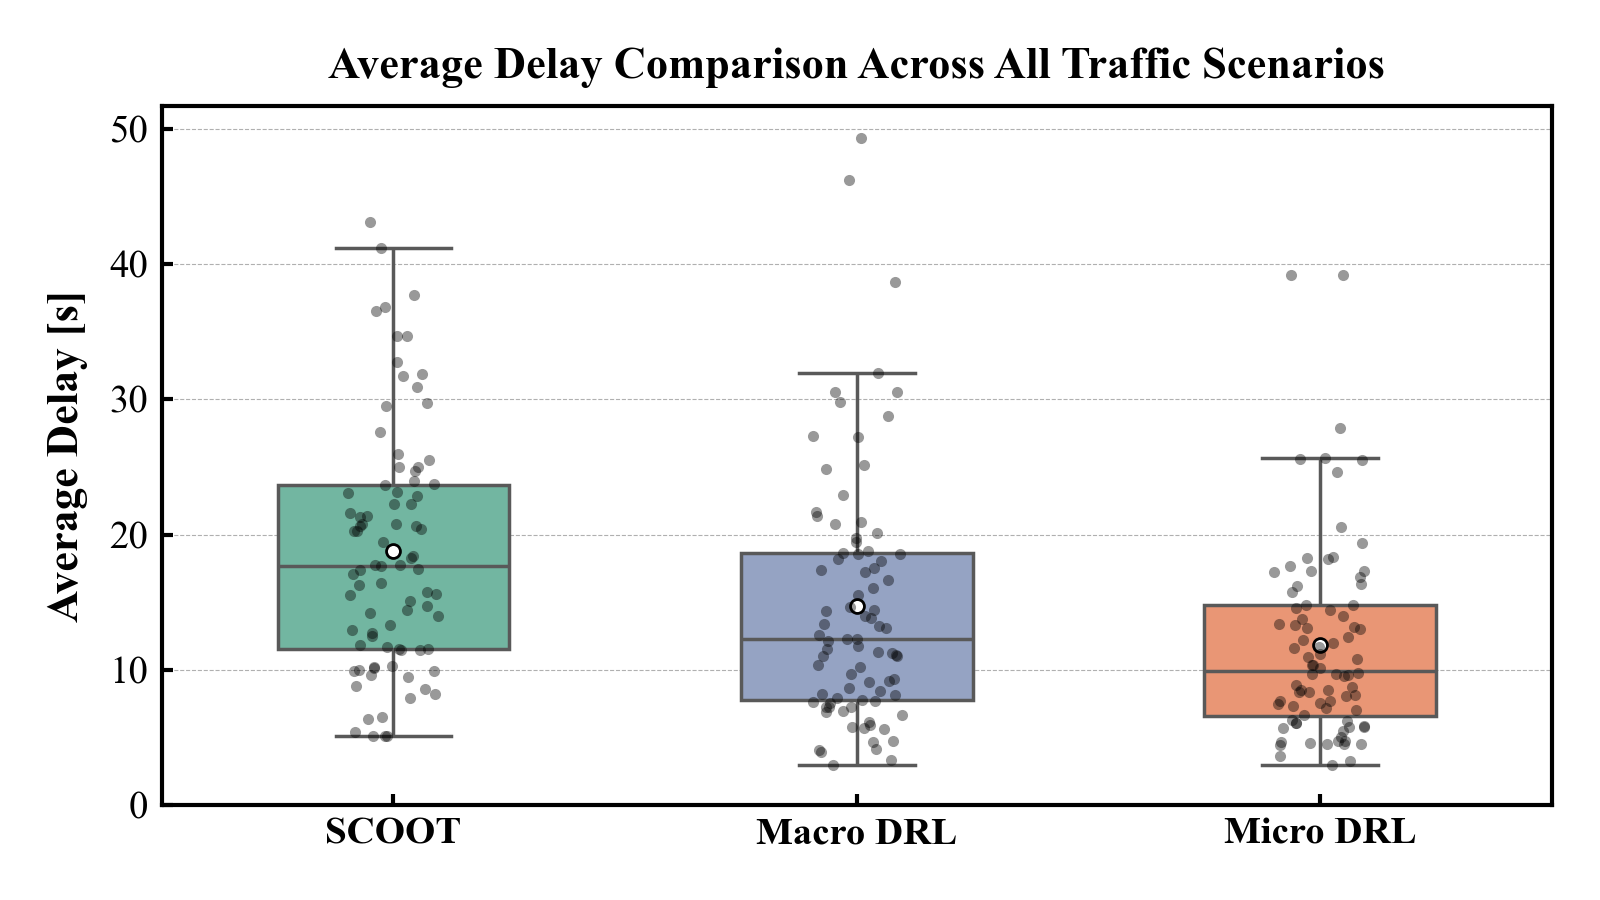
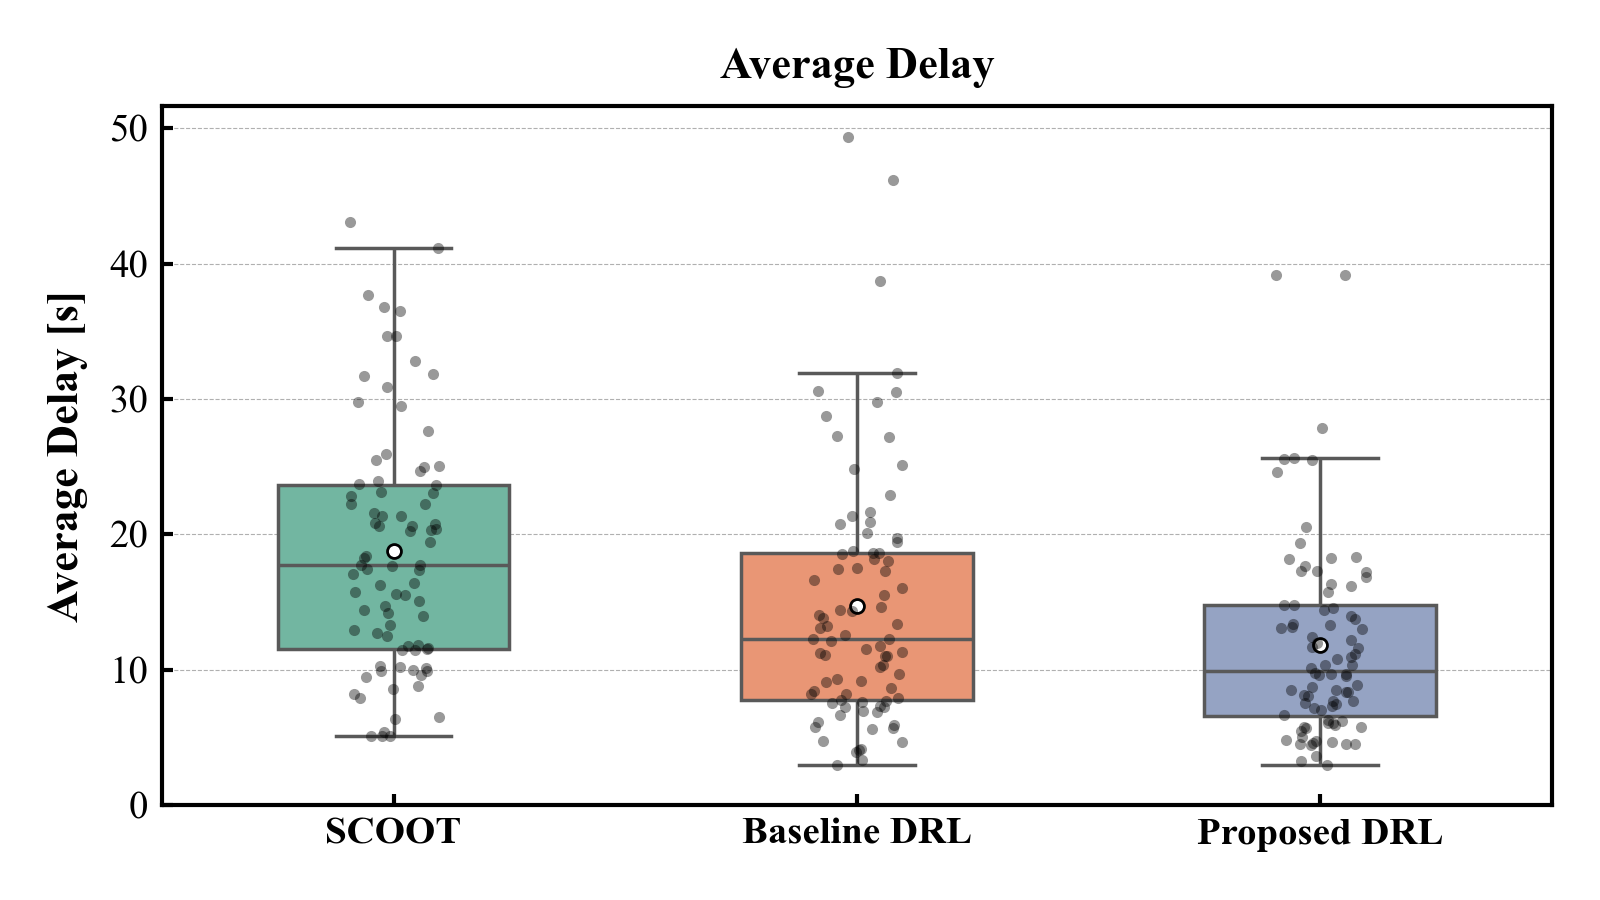
update simulations

diff --git a/misc/analysis/performance_metric_box_plots/plot.py b/misc/analysis/performance_metric_box_plots/plot.py
@@ -75,7 +75,7 @@ def getPerformanceMetricDf(config_yaml):
                     # make performance_metric_map
                     performance_metric_map = {
                         'id': len(performance_metric_map_list) + 1,
-                        'method': f"{num_phases}-phase MPC",
+                        'method': config_yaml['figure']['x_axis']['label']['mpc'][f"{num_phases}-phase"],
                         'layout': layout,
                         'inflow': simulator_dir_path.parent.name,
                         'intersection': int(re.match(rf"intersection_(\d+)", intersection_dir_path.name).group(1)),
@@ -112,7 +112,7 @@ def getPerformanceMetricDf(config_yaml):
                     # make performance_metric_map
                     performance_metric_map = {
                         'id': len(performance_metric_map_list) + 1,
-                        'method': 'SCOOT',
+                        'method': config_yaml['figure']['x_axis']['label']['scoot'],
                         'layout': layout,
                         'inflow': simulator_dir_path.parent.name,
                         'intersection': int(re.match(rf"intersection_(\d+)", intersection_dir_path.name).group(1)),
@@ -142,9 +142,9 @@ def getPerformanceMetricDf(config_yaml):
                 vehicle_state_info = method_config['state']['vehicle']
 
                 if all(vehicle_state_info[key] for key in ['position', 'speed', 'route']):
-                    method_name = 'Micro DRL'
+                    method_name = config_yaml['figure']['x_axis']['label']['drl']['micro']
                 elif all(not vehicle_state_info[key] for key in ['position', 'speed', 'route']):
-                    method_name = 'Macro DRL'
+                    method_name = config_yaml['figure']['x_axis']['label']['drl']['macro']
                 else:
                     continue
 
@@ -190,21 +190,36 @@ def getOrderList(config_yaml, performance_metric):
 
     if performance_metric != 'reward':
         if config_yaml['target']['control_method']['scoot']:
-            order_list.append('SCOOT')
+            order_list.append(config_yaml['figure']['x_axis']['label']['scoot'])
         
         for num_phases in [4, 8, 17]:
             if config_yaml['target']['control_method']['mpc'][f"{num_phases}-phase"]:
-                order_list.append(f"{num_phases}-phase MPC")
-
+                order_list.append(config_yaml['figure']['x_axis']['label']['mpc'][f"{num_phases}-phase"])
     if config_yaml['target']['control_method']['drl']['macro']:
-        order_list.append('Macro DRL')
+        order_list.append(config_yaml['figure']['x_axis']['label']['drl']['macro'])
 
     if config_yaml['target']['control_method']['drl']['micro']:
-        order_list.append('Micro DRL')
+        order_list.append(config_yaml['figure']['x_axis']['label']['drl']['micro'])
     
     return order_list
 
+def getColorMap(config_yaml):
+    method_list = []
+    if config_yaml['target']['control_method']['scoot']:
+        method_list.append(config_yaml['figure']['x_axis']['label']['scoot'])
+    for num_phases in [4, 8, 17]:
+        if config_yaml['target']['control_method']['mpc'][f"{num_phases}-phase"]:
+            method_list.append(config_yaml['figure']['x_axis']['label']['mpc'][f"{num_phases}-phase"])
+    if config_yaml['target']['control_method']['drl']['macro']:
+        method_list.append(config_yaml['figure']['x_axis']['label']['drl']['macro'])
+    if config_yaml['target']['control_method']['drl']['micro']:
+        method_list.append(config_yaml['figure']['x_axis']['label']['drl']['micro'])
+    
+    color_list = sns.color_palette('Set2', n_colors=len(method_list))
+    return dict(zip(method_list, color_list))
+
 def plotFigure(config_yaml, performance_metric_df, save_dir_path):
+    color_map = getColorMap(config_yaml)
     for performance_metric in config_yaml['target']['performance_metrics']:
         fig, ax = plt.subplots()
         
@@ -217,7 +232,7 @@ def plotFigure(config_yaml, performance_metric_df, save_dir_path):
             data=performance_metric_df,
             hue='method',
             legend=False,
-            palette='Set2',
+            palette=color_map,
             width=0.5,
             linewidth=2.5,
             showmeans=True,
